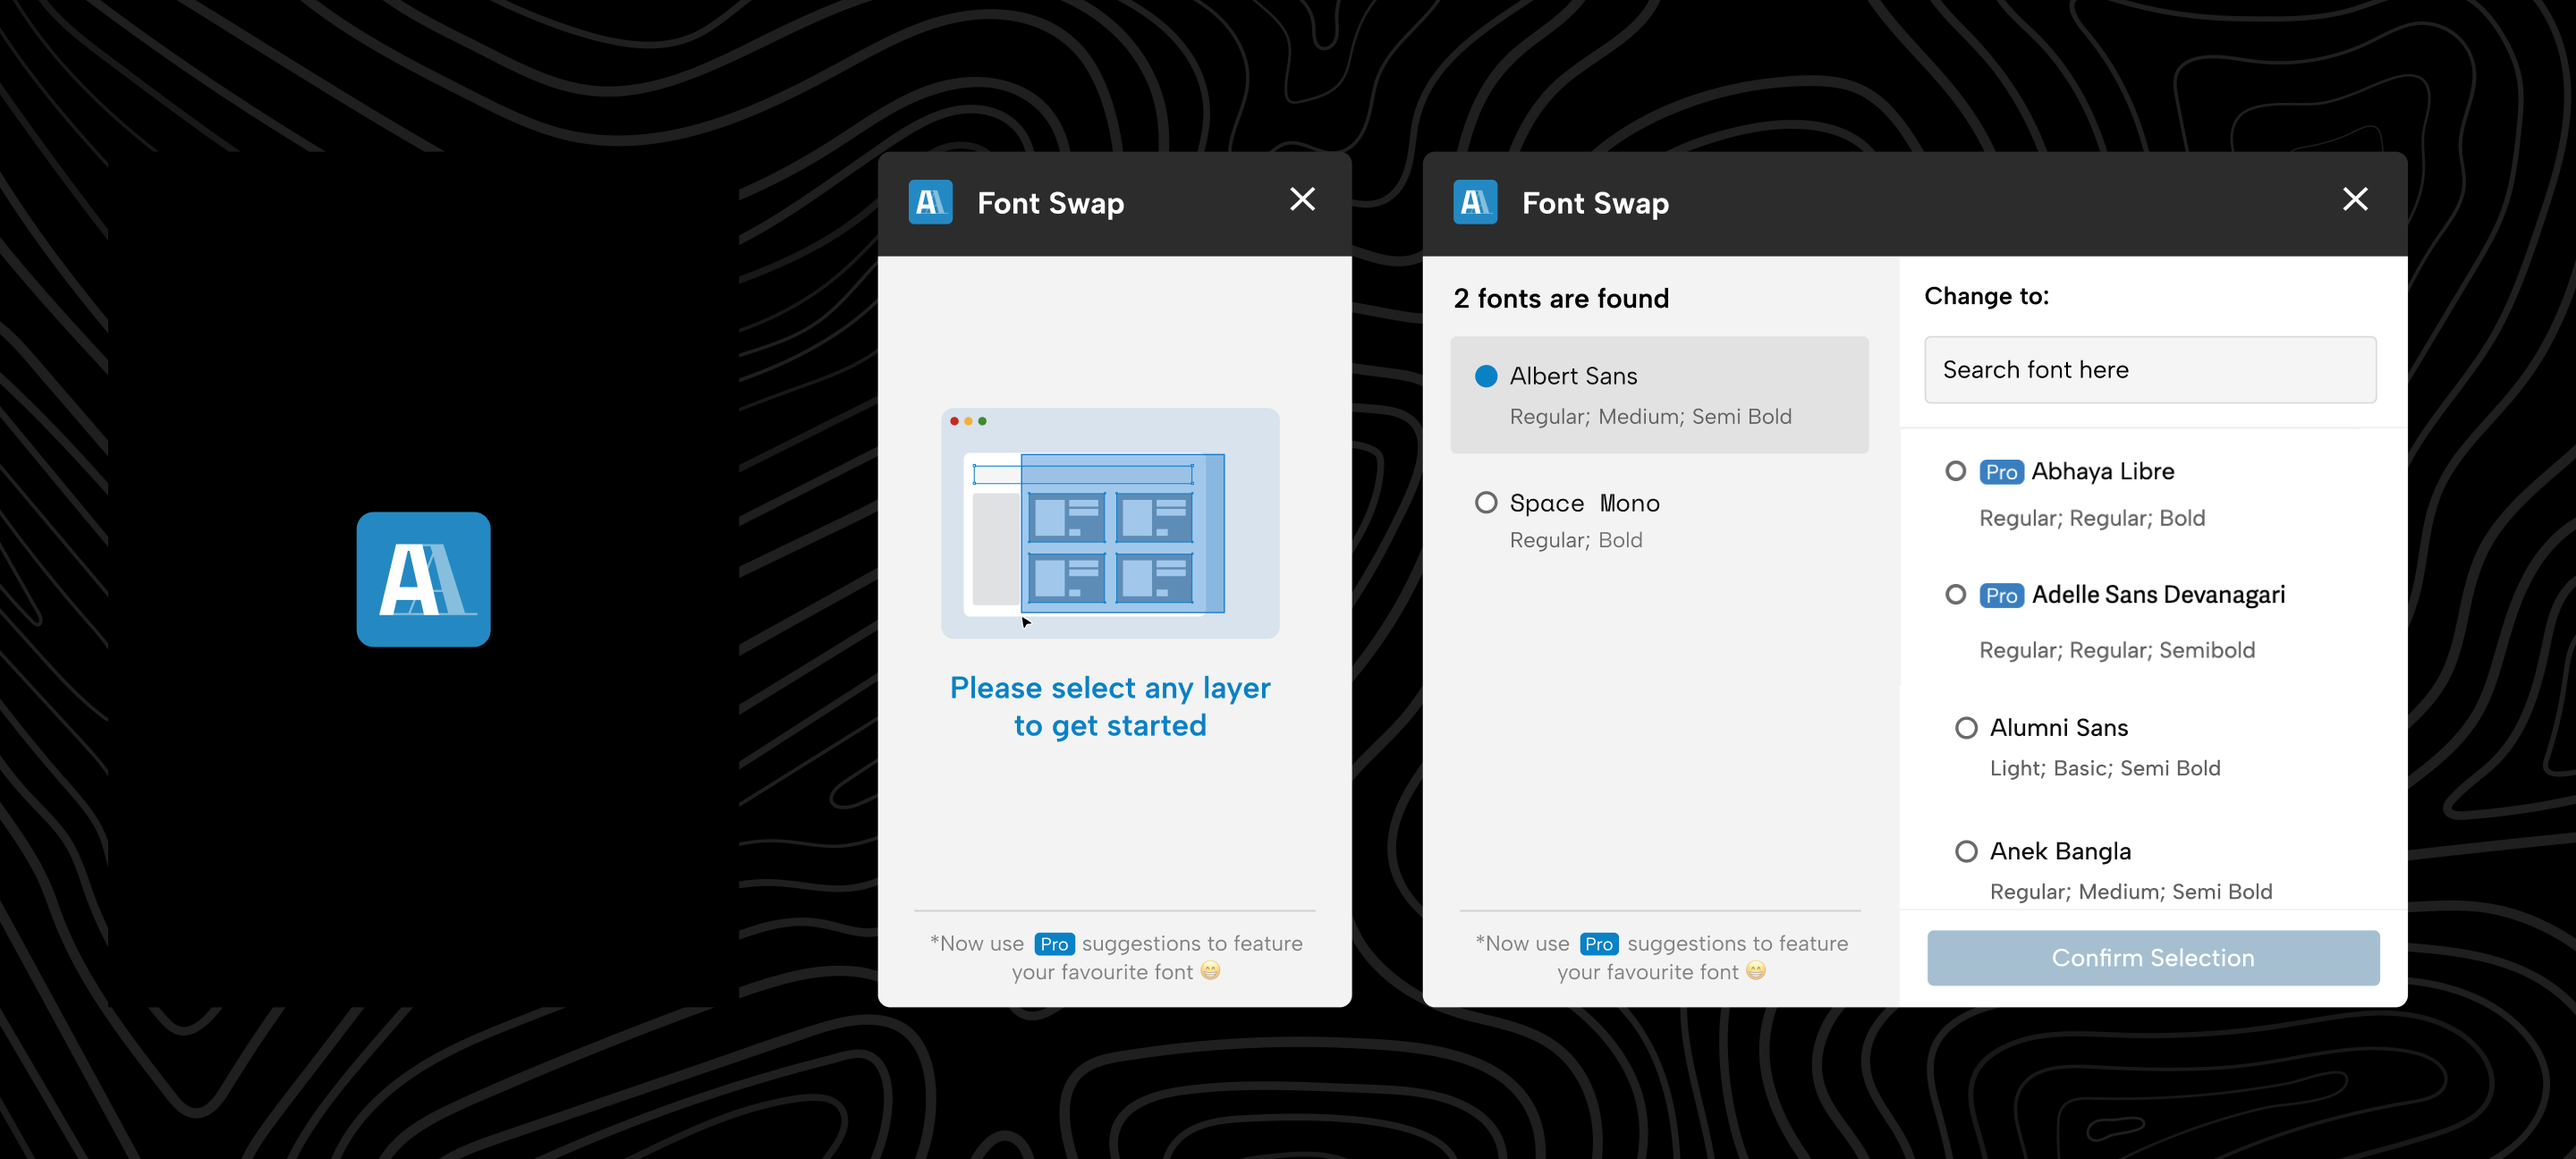
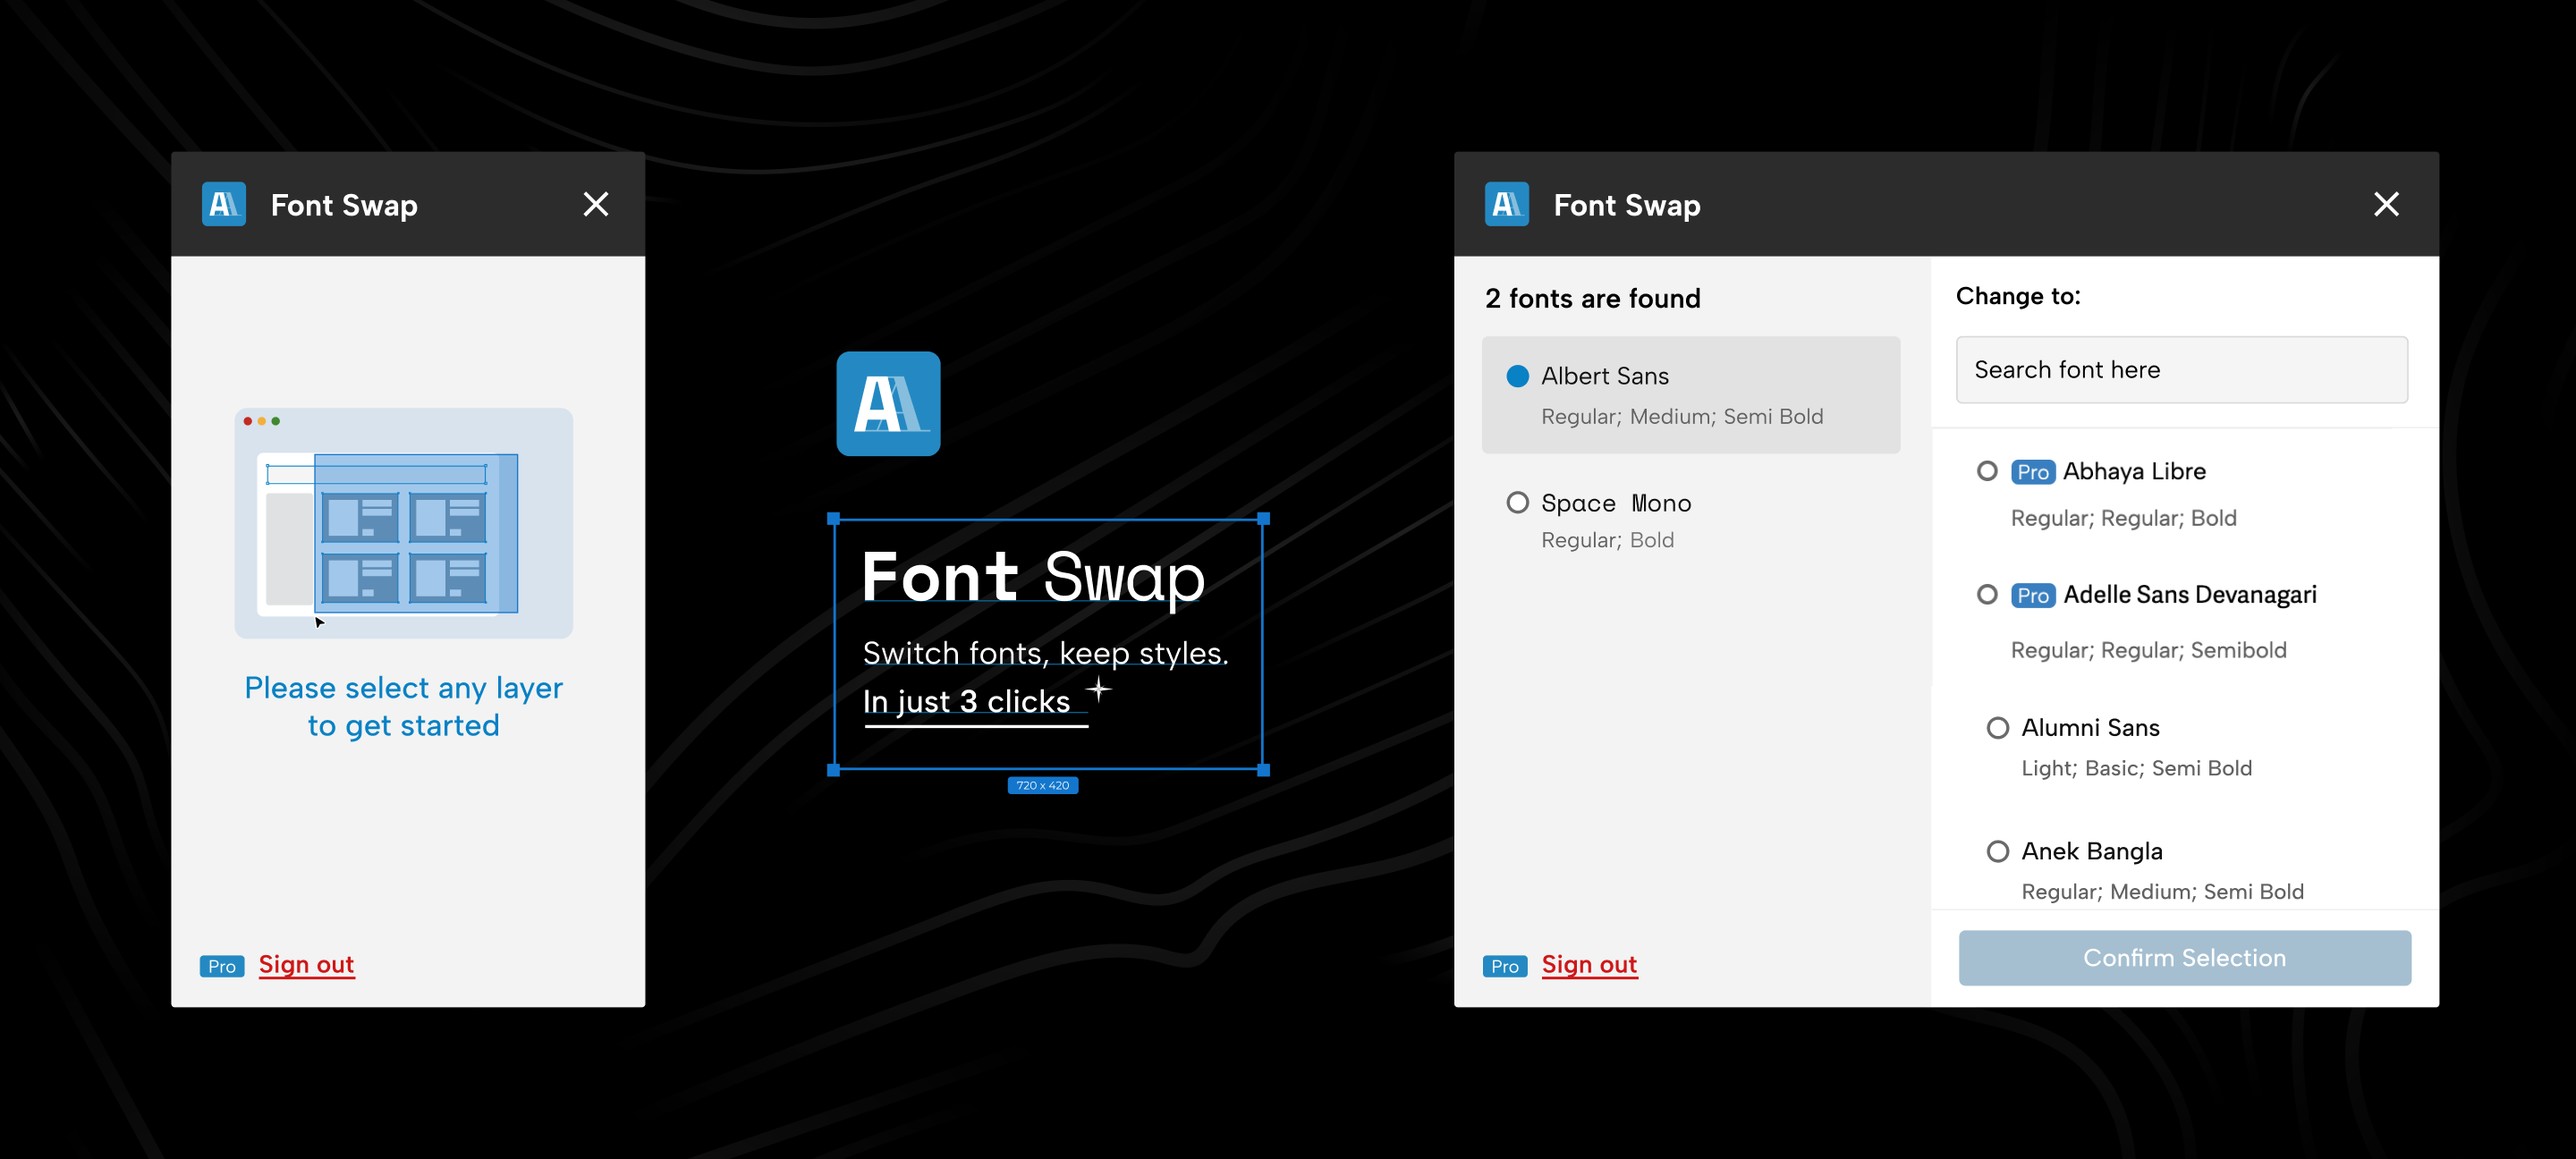
ui fixes

diff --git a/src/app/(projects)/projects/fontswap-research/page.tsx b/src/app/(projects)/projects/fontswap-research/page.tsx
@@ -15,6 +15,7 @@ import ArrowBack from "@/../../public/arrow_back.svg";
 import DP from "@/../../public/ashish_sharma.png";
 import StarSVG from "@/../../public/star.svg";
 import Banner from "@/../../public/projects/fontswap/banner.png";
+import SelectLayerGif from "@/../../public/projects/fontswap/select_layer.gif";
 
 
 export default function FontSwapResearch() {
@@ -47,7 +48,7 @@ export default function FontSwapResearch() {
 
         <div className="sticky top-10 items-left body_width grid gap-24 mt-8 font-medium" style={{color: "#0069E5"}}>
             <Link href={"/"}>
-                <div className="inline-flex items-center justify-start hover:underline gap-2 button_small cursor-pointer">
+                <div className="goback_button button_small">
                   <Image
                   src={ArrowBack}
                   alt="back arrow icon"
@@ -73,7 +74,7 @@ export default function FontSwapResearch() {
             <h4 className="flex" style={{fontWeight:"500", width:"25%", textAlign:"center"}}>
                 A Figma Plugin addressing to replace all font styles with 3 clicks
             </h4>
-            <h1 className="flex mt-48 gap-8 font-light font-noto-serif justify-center overflow-hidden whitespace-nowrap text-clip text-gray-800">
+            <h1 className="flex text-6xl mt-48 gap-8 font-light font-noto-serif justify-center overflow-hidden whitespace-nowrap text-clip text-gray-800">
               {/* <Image width={72} src={Logo} alt="Figma Logo"/> */}
               Font Swap
               <Image
@@ -96,12 +97,18 @@ export default function FontSwapResearch() {
 
 
         {/* ---------- Image ---------- */}
-
+        <div className="flex justify-center items-center w-full relative -z-10">
         <Image
         src={Banner}
         alt="how might we questions"
         className="w-full"
         />
+        <Image
+        src={SelectLayerGif}
+        alt="how might we questions"
+        className="w-[14.2%] absolute left-[9.1rem] top-[16rem]"
+        />
+        </div>
 
 
 
@@ -335,17 +342,6 @@ export default function FontSwapResearch() {
         alt="how might we questions"
         className="w-full mt-24"
         />
-
-
-        {/* ---------- Images ---------- */}
-
-
-        <Image
-        src={UsabilityTesting}
-        alt="how might we questions"
-        className="w-full mt-24"
-        />
-
 
 
         {/* ---------- Solution and Challenges ---------- */}

diff --git a/src/app/components/ui/footer.tsx b/src/app/components/ui/footer.tsx
@@ -39,6 +39,15 @@ export default function Footer() {
         <ul className='footer_links'>
 
         <li className='flex'>
+          <Navigation target="_blank" name="Resume" href="https://drive.google.com/file/d/1ZSNwRmH_NFad1FuJxVxoCsSnlrOGHxR5/view?usp=share_link" status="mobile_ui"/> &nbsp;
+          <Image
+          src={OutwardArrow}
+          alt='outward arrow icon'
+          width={20}
+          />
+        </li> 
+
+        <li className='flex'>
           <Navigation target="_blank" name="Figma Community" href="https://www.figma.com/@ashishsauparna" status="mobile_ui"/> &nbsp;
           <Image
           src={OutwardArrow}
@@ -48,24 +57,24 @@ export default function Footer() {
         </li>
 
 
-          <li className='flex'>
-            <Navigation target="_blank" name="Linkedin" href="https://www.linkedin.com/in/ashishsauparna/" status="mobile_ui"/> &nbsp;
-            <Image
-            src={OutwardArrow}
-            alt='outward arrow icon'
-            width={20}
-          />
-          </li>
-          {/* <li className='dash'>
-            /
-          </li> */}
-          <li className='flex'>
-            <Navigation target="_blank" name="Medium" href="https://medium.com/@ashishsauparna" status="mobile_ui"/> &nbsp;
-            <Image
-            src={OutwardArrow}
-            alt='outward arrow icon'
-            width={20}
-          />
+        <li className='flex'>
+          <Navigation target="_blank" name="Linkedin" href="https://www.linkedin.com/in/ashishsauparna/" status="mobile_ui"/> &nbsp;
+          <Image
+          src={OutwardArrow}
+          alt='outward arrow icon'
+          width={20}
+        />
+        </li>
+
+
+        
+        <li className='flex'>
+          <Navigation target="_blank" name="Medium" href="https://medium.com/@ashishsauparna" status="mobile_ui"/> &nbsp;
+          <Image
+          src={OutwardArrow}
+          alt='outward arrow icon'
+          width={20}
+        />
           </li>
         </ul>
         </div>

diff --git a/src/app/components/ui/navbar.tsx b/src/app/components/ui/navbar.tsx
@@ -44,30 +44,35 @@ export default function NavBar() {
           </div>
         </Link>
         <ul className='nav_links'>
+
           <li>
             <Navigation name="Home" href="/" status="default" />
           </li>
-          {/* <li className='text-slate-300'>
-            /
-          </li> */}
+
           <li>
           {/* 😇&nbsp; */}
           <Navigation name="About" href="/about-me" status="default" />
           </li>
-          {/* <li className='text-slate-300'>
-            /
-          </li> */}
-          <li>
-          <Navigation name="Inspirations" href="/my-reads" status="default" />
-          </li>
-          {/* <li className='text-slate-300'>
-            /
-          </li> */}
-          <li className='flex'>
-          <Navigation name="Articles" href="https://medium.com/@ashishsauparna" status="default"  target="_blank"/> &nbsp;
+
+          <li className='flex gap-1'>
+          <Navigation name="Resume" href="https://drive.google.com/file/d/1ZSNwRmH_NFad1FuJxVxoCsSnlrOGHxR5/view?usp=share_link" status="default" target="_blank"/>
           <Image
           src={OutwardArrow}
           alt='outward arrow icon'
+          width={20}
+          />
+          </li>
+
+          <li>
+          <Navigation name="Inspirations" href="/my-reads" status="default" />
+          </li>
+
+          <li className='flex gap-1'>
+          <Navigation name="Articles" href="https://medium.com/@ashishsauparna" status="default"  target="_blank"/>
+          <Image
+          src={OutwardArrow}
+          alt='outward arrow icon'
+          width={20}
           />
           </li>
           {/* <li>

diff --git a/src/app/(projects)/projects/buttonsmith-research/page.tsx b/src/app/(projects)/projects/buttonsmith-research/page.tsx
@@ -48,7 +48,7 @@ export default function ButtonSmithResearch() {
 
         <div className="sticky top-10 items-left body_width grid gap-24 mt-8 font-medium" style={{color: "#0069E5"}}>
             <Link href={"/"}>
-                <div className="inline-flex items-center justify-start hover:underline gap-2 button_small cursor-pointer">
+                <div className="goback_button button_small">
                   <Image
                   src={ArrowBack}
                   alt="back arrow icon"
@@ -73,7 +73,7 @@ export default function ButtonSmithResearch() {
             <h4 className="flex" style={{fontWeight:"500", width:"25%", textAlign:"center"}}>
               One Figma Plugin to generates and documents all your button states
             </h4>
-            <h1 className="flex mt-48 gap-8 font-light font-noto-serif justify-center overflow-hidden whitespace-nowrap text-clip text-gray-800">
+            <h1 className="flex text-6xl mt-48 gap-8 font-light font-noto-serif justify-center overflow-hidden whitespace-nowrap text-clip text-gray-800">
               {/* <Image width={72} src={Logo} alt="Figma Logo"/> */}
               -
               <Image

diff --git a/src/app/globals.css b/src/app/globals.css
@@ -342,9 +342,28 @@ li .mobile_ui:hover{
   color: #fefefe;
 }
 
+.goback_button {
+  backdrop-filter: none; /* No blur initially */
+  display: inline-flex;
+  align-items: center;
+  justify-content: flex-start;
+  background-color: #0069E5;
+  gap: 0.5rem; /* 8px gap between items */
+  cursor: pointer;
+  z-index: 1000;
+  border: none;
+  color: #fefefe;
+}
+
+.goback_button:hover {
+  text-decoration: underline;
+}
+
+
 .arrow-back-icon {
   transition: filter 0.1s ease;
   margin-top: -2px;
+  filter: brightness(0) invert(1);
 }
 
 .button_small:hover .arrow-back-icon {

diff --git a/src/app/(projects)/projects/rozgar-research/page.tsx b/src/app/(projects)/projects/rozgar-research/page.tsx
@@ -43,7 +43,7 @@ export default function RozgarResearch() {
 
         <div className="sticky top-10 items-left body_width grid gap-24 mt-8 font-medium" style={{color: "#0069E5"}}>
             <Link href={"/"}>
-                <div className="inline-flex items-center justify-start hover:underline gap-2 button_small cursor-pointer">
+                <div className="goback_button button_small">
                   <Image
                   src={ArrowBack}
                   alt="back arrow icon"
